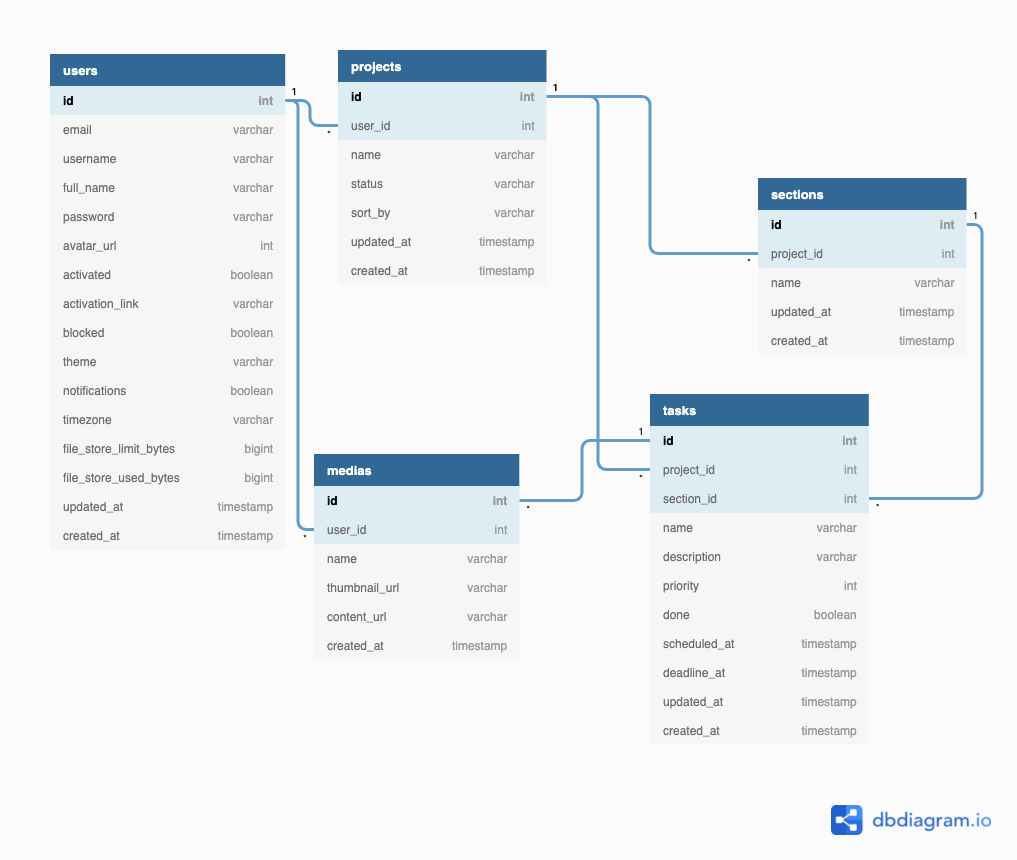
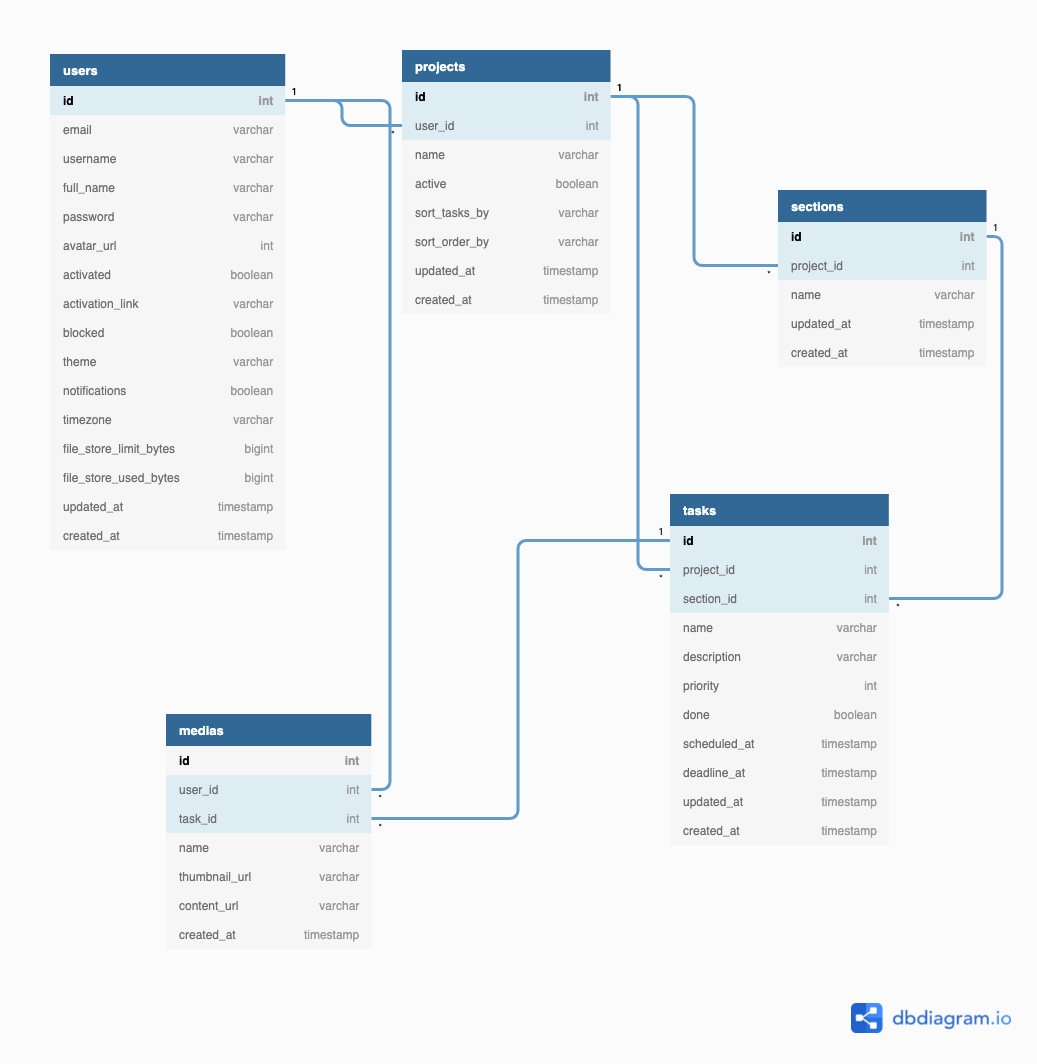
Project structure refactoring (#6)
* Project structure refactoring

* Project structure refactoring

* Added dtos

* Updated migrations

* Added projects component

* Removed old endpoints import

* Fixed path to db config in scripts

* Updated docs

* Updated development instructions

Changed region(s): [[0.0305, 0.0302, 0.9754, 0.907], [0.7925, 0.9372, 0.9754, 0.9674], [0.7925, 0.8465, 0.8535, 0.8767]]

diff --git a/src/modules/db/migrations/20211219102548_create_users_table.js b/src/modules/db/migrations/20211219102548_create_users_table.js
@@ -1,0 +1,33 @@
+exports.up = function(knex) {
+  return knex.schema.createTable('users', (table) => {
+    table.increments('id');
+
+    table.string('email').unique().notNullable();
+    table.string('password').notNullable();
+
+    table.string('username').notNullable();
+    table.string('full_name');
+
+    table.string('avatar_url');
+
+    table.boolean('activated').defaultTo(false);
+    table.string('activation_link').unique();
+    table.boolean('blocked').defaultTo(false);
+
+    table.string('theme');
+    table.boolean('notifications').defaultTo(true);
+    table.string('timezone').defaultTo('Europe/Kiev');
+
+    table.bigInteger('file_store_limit_bytes').defaultTo(1073741824); // 1 gb
+    table.bigInteger('file_store_used_bytes').defaultTo(0);
+
+    table.dateTime('created_at').notNullable().defaultTo(knex.fn.now());
+    table.dateTime('updated_at').defaultTo(knex.raw('CURRENT_TIMESTAMP ON UPDATE CURRENT_TIMESTAMP'));
+
+    table.unique(['id', 'email']);
+  });
+};
+
+exports.down = function(knex) {
+  return knex.schema.dropTable('users');
+};

diff --git a/src/modules/db/migrations/20220223183744_create_tasks_table.js b/src/modules/db/migrations/20220223183744_create_tasks_table.js
@@ -1,0 +1,25 @@
+exports.up = function(knex) {
+  return knex.schema.createTable('tasks', (table) => {
+    table.increments('id');
+    table.integer('project_id').unsigned().references('id').inTable('projects').onDelete('cascade').notNullable();
+    table.integer('section_id').unsigned().references('id').inTable('sections').onDelete('cascade');
+
+    table.string('name').notNullable();
+    table.string('description', 1000);
+
+    table.integer('priority').defaultTo(0);
+    table.boolean('done').defaultTo(false);
+
+    table.dateTime('scheduled_at');
+    table.dateTime('deadline_at');
+
+    table.dateTime('created_at').notNullable().defaultTo(knex.fn.now());
+    table.dateTime('updated_at').defaultTo(knex.raw('CURRENT_TIMESTAMP ON UPDATE CURRENT_TIMESTAMP'));
+
+    table.unique(['id', 'project_id', 'section_id']);
+  });
+};
+
+exports.down = function(knex) {
+  return knex.schema.dropTable('users');
+};

diff --git a/src/modules/db/migrations/20220223143635_create_projects_table.js b/src/modules/db/migrations/20220223143635_create_projects_table.js
@@ -1,0 +1,21 @@
+exports.up = function(knex) {
+  return knex.schema.createTable('projects', (table) => {
+    table.increments('id');
+    table.integer('user_id').unsigned().references('id').inTable('users').onDelete('cascade').notNullable();
+
+    table.string('name').notNullable();
+    table.boolean('active').defaultTo(true);
+
+    table.string('sort_tasks_by').defaultTo('created_at');
+    table.string('order_tasks_by').defaultTo('DESC');
+
+    table.dateTime('created_at').notNullable().defaultTo(knex.fn.now());
+    table.dateTime('updated_at').defaultTo(knex.raw('CURRENT_TIMESTAMP ON UPDATE CURRENT_TIMESTAMP'));
+
+    table.unique(['id', 'user_id']);
+  });
+};
+
+exports.down = function(knex) {
+  return knex.schema.dropTable('users');
+};

diff --git a/src/modules/db/migrations/20220223184455_create_medias_table.js b/src/modules/db/migrations/20220223184455_create_medias_table.js
@@ -1,0 +1,20 @@
+exports.up = function(knex) {
+  return knex.schema.createTable('medias', (table) => {
+    table.increments('id');
+    table.integer('user_id').unsigned().references('id').inTable('users').onDelete('cascade').notNullable();
+    table.integer('task_id').unsigned().references('id').inTable('tasks').onDelete('cascade').notNullable();
+
+    table.string('name').notNullable();
+
+    table.string('thumbnail_url', 500);
+    table.string('content_url', 500);
+
+    table.dateTime('created_at').notNullable().defaultTo(knex.fn.now());
+
+    table.unique(['id', 'user_id', 'task_id']);
+  });
+};
+
+exports.down = function(knex) {
+  return knex.schema.dropTable('users');
+};

diff --git a/src/modules/db/migrations/20220223183458_create_sections_table.js b/src/modules/db/migrations/20220223183458_create_sections_table.js
@@ -1,0 +1,17 @@
+exports.up = function(knex) {
+  return knex.schema.createTable('sections', (table) => {
+    table.increments('id');
+    table.integer('project_id').unsigned().references('id').inTable('projects').onDelete('cascade').notNullable();
+
+    table.string('name').notNullable();
+
+    table.dateTime('created_at').notNullable().defaultTo(knex.fn.now());
+    table.dateTime('updated_at').defaultTo(knex.raw('CURRENT_TIMESTAMP ON UPDATE CURRENT_TIMESTAMP'));
+
+    table.unique(['id', 'project_id']);
+  });
+};
+
+exports.down = function(knex) {
+  return knex.schema.dropTable('users');
+};

diff --git a/app.js b/app.js
@@ -1,14 +1,10 @@
 const fastify = require('fastify');
 const config = require('./config');
 const cors = require('fastify-cors');
-const initDbConnection = require('./src/db/mysqlClient');
-
-const userRoutes = require('./routes/user-routes');
-const taskRoutes = require('./routes/tasks-routes');
+const initDbConnection = require('./src/modules/db/mysqlClient');
 
 const build = (opts = {}) => {
   const app = fastify(opts);
-  const db = initDbConnection();
 
   app.register(cors, {
     origin: true,

diff --git a/src/modules/db/mysqlClient.js b/src/modules/db/mysqlClient.js
@@ -1,6 +1,6 @@
 const knex = require('knex');
 const knexConfig = require('./knexfile');
-const config = require('../../config');
+const config = require('../../../config');
 
 const DEFAULT_OPTIONS = knexConfig[config.NODE_ENV];
 

diff --git a/src/modules/db/knexfile.js b/src/modules/db/knexfile.js
@@ -1,4 +1,4 @@
-const config = require('../../config');
+const config = require('../../../config');
 
 module.exports = {
   development: {

diff --git a/README.md b/README.md
@@ -48,11 +48,11 @@ The idea of the project is to create a web application for easy organization of 
 4. Adhere to one level of abstraction in the method
 5. One method - one action
 
-## Development instruction
+## Development instructions
 
 - `npm run start` - to start server
 - `npm run dev` - to start the server by automatically restarting the node application when file changes in the directory are detected (with nodemon)
 - `npm run test` - to start tests
-- `knex migrate:make [migration name] --knexfile ./src/db/knexfile.js --env [current environment]` - to create a migration
+- `knex migrate:make [migration name] --knexfile ./src/modules/db/knexfile.js --env [current environment]` - to create a migration
 - `npm run migrate` - to migrate latest migrations
 - `npm run revert-latest-migrations` - to revert the latest migrations
